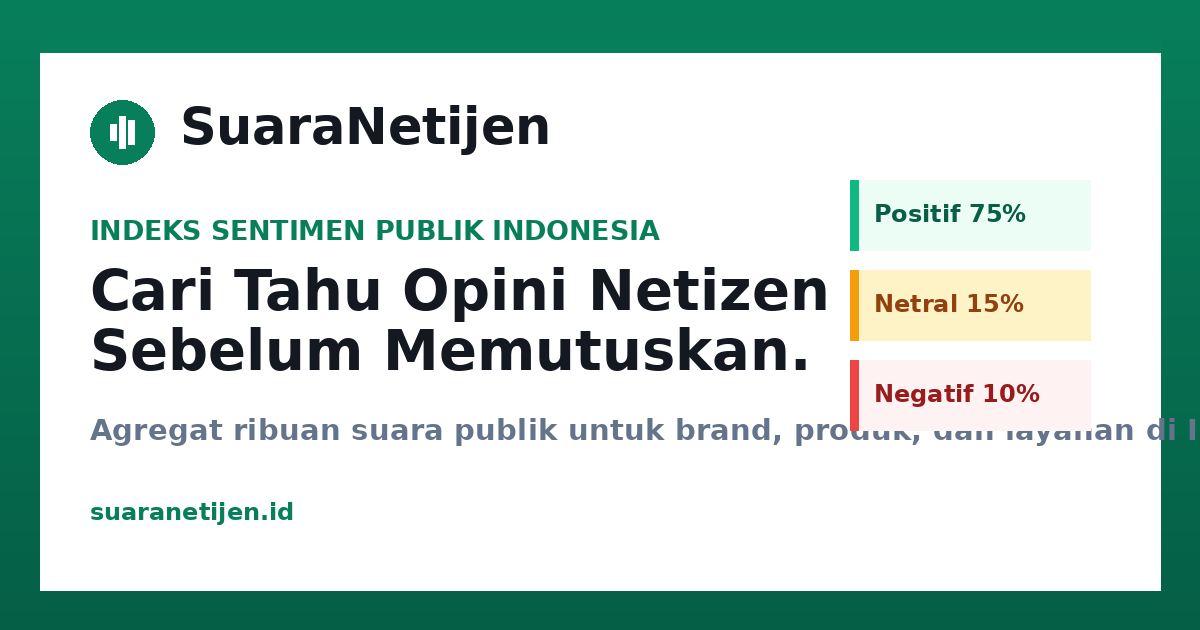
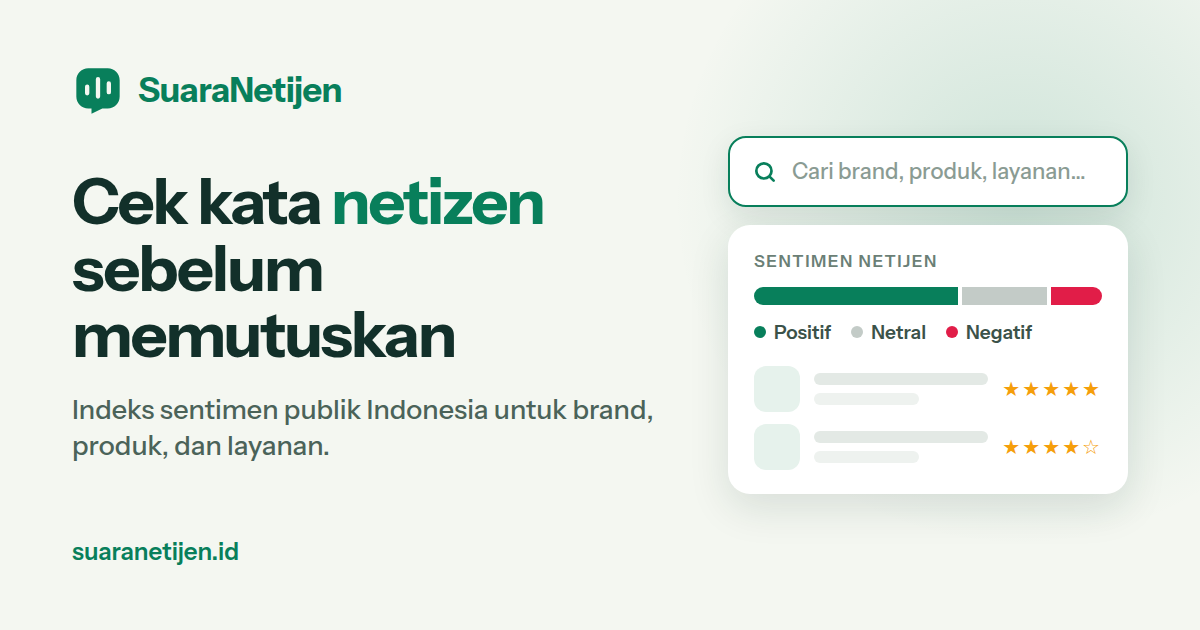
feat(seo): redesign default share image, add og:image:alt
The old card's subtitle ran under the sentiment boxes, which also
showed made-up percentages. New card uses the brand font and colors
with no fake numbers. URL gets ?v=2 so WhatsApp/Facebook refetch it.

diff --git a/resources/js/components/PublicSeo.vue b/resources/js/components/PublicSeo.vue
@@ -17,7 +17,7 @@ const props = withDefaults(
     }>(),
     {
         robots: 'index, follow',
-        image: '/og-image.png',
+        image: '/og-image.png?v=2',
     },
 );
 
@@ -76,6 +76,11 @@ const imageUrl = computed(() => {
         />
         <meta head-key="og:locale" property="og:locale" content="id_ID" />
         <meta head-key="og:image" property="og:image" :content="imageUrl" />
+        <meta
+            head-key="og:image:alt"
+            property="og:image:alt"
+            :content="fullTitle"
+        />
         <meta
             head-key="twitter:card"
             name="twitter:card"

diff --git a/resources/views/app.blade.php b/resources/views/app.blade.php
@@ -58,11 +58,12 @@
             <meta data-inertia="og:type" property="og:type" content="website">
             <meta data-inertia="og:site_name" property="og:site_name" content="{{ config('app.name', 'SuaraNetijen') }}">
             <meta data-inertia="og:locale" property="og:locale" content="id_ID">
-            <meta data-inertia="og:image" property="og:image" content="{{ rtrim(config('app.url'), '/') }}/og-image.png">
+            <meta data-inertia="og:image" property="og:image" content="{{ rtrim(config('app.url'), '/') }}/og-image.png?v=2">
+            <meta data-inertia="og:image:alt" property="og:image:alt" content="SuaraNetijen — Indeks Sentimen Publik Indonesia">
             <meta data-inertia="twitter:card" name="twitter:card" content="summary_large_image">
             <meta data-inertia="twitter:title" name="twitter:title" content="SuaraNetijen — Indeks Sentimen Publik Indonesia">
             <meta data-inertia="twitter:description" name="twitter:description" content="Cari tahu opini netizen tentang brand, produk, dan layanan di Indonesia lewat sentimen publik dan rating pengguna di SuaraNetijen.">
-            <meta data-inertia="twitter:image" name="twitter:image" content="{{ rtrim(config('app.url'), '/') }}/og-image.png">
+            <meta data-inertia="twitter:image" name="twitter:image" content="{{ rtrim(config('app.url'), '/') }}/og-image.png?v=2">
         </x-inertia::head>
     </head>
     <body class="font-sans antialiased">

diff --git a/tests/Feature/Seo/SeoPlanImplementationTest.php b/tests/Feature/Seo/SeoPlanImplementationTest.php
@@ -193,7 +193,9 @@ test('default og image in app blade is png and exists in public', function () {
     $response = $this->get('/');
     $response->assertOk();
 
-    expect($response->getContent())->toContain('/og-image.png');
+    expect($response->getContent())->toContain('/og-image.png?v=2')
+        ->toContain('property="og:image:alt"');
+    expect(array_slice(getimagesize(public_path('og-image.png')) ?: [], 0, 2))->toBe([1200, 630]);
     expect(file_exists(public_path('og-image.png')))->toBeTrue();
 });
 
